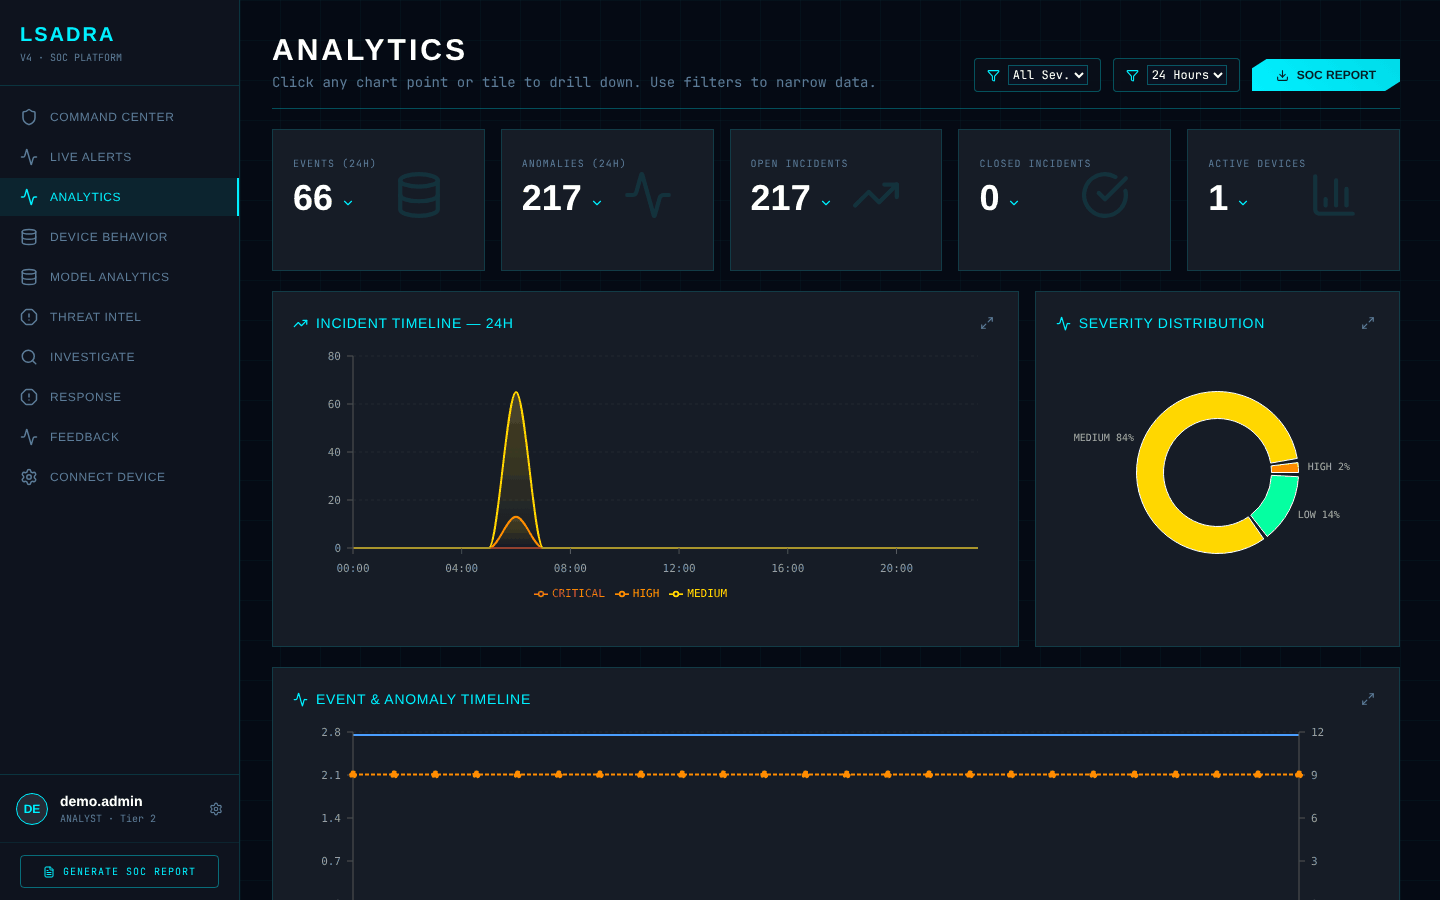
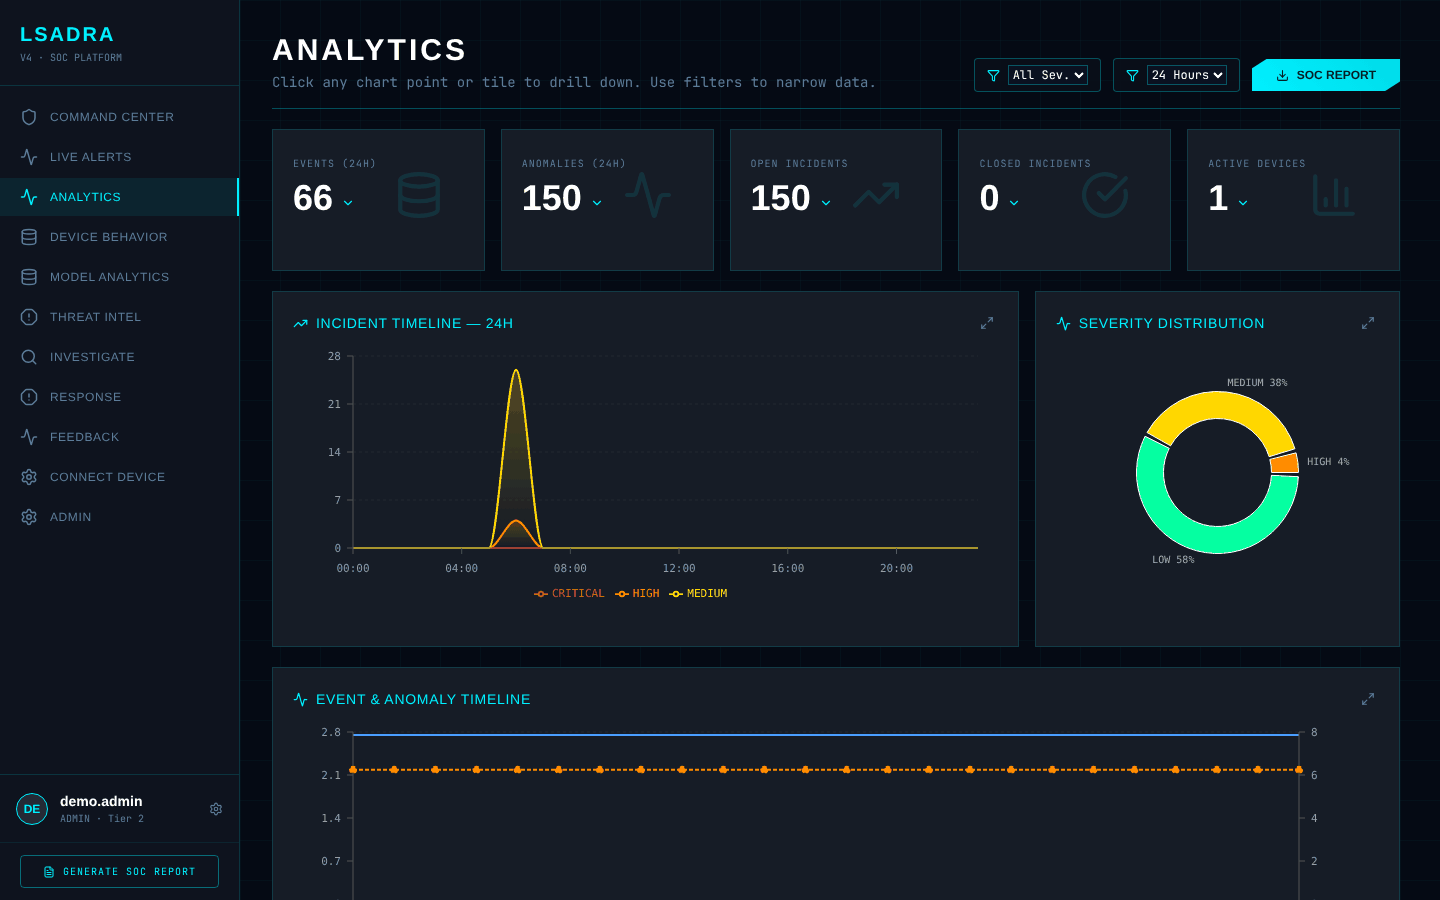
docs: cover the admin CLI in README, retake screenshots on fixed dashboard
Retake the tour screenshots on main plus the KPI, first-admin and
no-mock-data fixes, add the Admin page, and document creating the first
admin with lsadra.admin_cli. Drop placeholder-table rows those fixes
resolve. Leave CONTRIBUTING.md to the contributor quick start PR.

Claude-Session: https://claude.ai/code/session_013hvzU9MtU99dom3KQZ1H2Z

diff --git a/README.md b/README.md
@@ -122,9 +122,28 @@ npm run dev
 
 Open **http://localhost:5173** and sign in as `demo.admin` / `demo-only-not-a-secret` (the sign-in button is labelled **Initialize**). You can also create your own account with **Register**.
 
+The dashboard only ever shows data from the API. Front-end developers who want canned data without a backend can run `VITE_DEMO_MOCKS=true npm run dev` and sign in as `testuser`; that switch exists only in the dev server and is compiled out of production builds.
+
+### 5. Create an admin
+
+Accounts created with **Register**, including `demo.admin`, get the `ANALYST` role, which sees only its own data and cannot open the **Admin** page. Admins are made from a shell on the server, with the same settings as the API (here, dev mode):
+
+```bash
+# Linux / macOS: promote the demo account, or create a new admin (prompts for a password of 12+ characters)
+LSADRA_DEV_MODE=true venv/bin/python -m lsadra.admin_cli promote --username demo.admin
+LSADRA_DEV_MODE=true venv/bin/python -m lsadra.admin_cli create-admin --username alice
+```
+
+```powershell
+# Windows PowerShell (in a shell where $env:LSADRA_DEV_MODE = "true" is already set)
+venv\Scripts\python -m lsadra.admin_cli promote --username demo.admin
+```
+
+Sign out and back in for the new role to apply. After that, admins can manage users and roles from the **Admin** page. For scripts and containers, `create-admin --password-stdin` reads the password from standard input instead of prompting.
+
 > The dashboard calls the API at `http://localhost:8000`, which is set in [`frontend/src/services/api.ts`](frontend/src/services/api.ts). If you run the API elsewhere, change it there and add the dashboard's origin to `LSADRA_CORS_ORIGINS`.
 
-### 5. Check everything works
+### 6. Check everything works
 
 ```bash
 venv/bin/python tests/test_v4_smoke.py        # expected: 27/27 passed
@@ -132,7 +151,7 @@ venv/bin/python tests/test_v4_smoke.py        # expected: 27/27 passed
 
 ## Dashboard tour
 
-The screenshots below were taken from the quick start above: one demo device, 217 replayed events, 1440×900 window. Accounts created with **Register** get the `ANALYST` role; `ADMIN` sees every user's data, other roles see only their own.
+The screenshots below were taken by following the quick start above, signed in as `demo.admin` after promoting it to admin: one demo device, 217 replayed events, 1440×900 window. `ADMIN` sees every user's data; `ANALYST` and `VIEWER` see only their own.
 
 ### Sign in
 
@@ -144,7 +163,7 @@ Sign-in goes only through `POST /api/auth/login`; there is no offline login, so 
 
 <img src="docs/screenshots/command-center.png" alt="Command Center" width="720"/>
 
-The home screen. The tiles at the top count events in the last 24 hours, active threats, open and closed incidents, and devices currently sending. **Top Active Incidents** lists open incidents by recency with their severity, source IP and attack type. The **Live Threat Feed** on the right is pushed over the `/ws/alerts` WebSocket as detection stores each anomaly. If the socket drops, the page reconnects with backoff and polls every 5 seconds in the meantime.
+The home screen. The tiles at the top count events in the last 24 hours, active threats, open and closed incidents, and devices currently sending. **Ingestion Health** shows the measured event rate over the last minute; latency and drop rate say "not measured" until the API measures them. **Top Active Incidents** lists open incidents by recency with their severity, source IP and attack type. The **Live Threat Feed** on the right is pushed over the `/ws/alerts` WebSocket as detection stores each anomaly. If the socket drops, the page reconnects with backoff and polls every 5 seconds in the meantime.
 
 ### Live Alerts
 
@@ -182,6 +201,12 @@ Generates a one-time registration token and the one-line Linux install command f
 
 Per-source ingestion health: which log sources are active, events per second and latency, and the ingestion nodes (devices) behind them.
 
+### Admin
+
+<img src="docs/screenshots/admin.png" alt="Admin user management" width="720"/>
+
+Admins only. List users, change their roles, and create accounts with a chosen role.
+
 ### Pages that still show placeholder data
 
 Some screens are designed but not yet wired to the API. They render, but parts of what they show are fixed sample content rather than your data. They are good first contributions:
@@ -192,15 +217,10 @@ Some screens are designed but not yet wired to the API. They render, but parts o
 | Investigate | The API has no entity endpoint yet (`GET /api/entity/{id}` returns 404), so every search shows a generic profile with a fixed risk score of 42 |
 | Threat Intel | The lookup box does not call the API yet, so it returns nothing; the server-side AbuseIPDB cache (`LSADRA_ABUSEIPDB_API_KEY`) is not shown here |
 | Response | Playbook steps, the console and the response metrics |
-| Feedback | The feedback history list starts with sample entries |
 | Live Alerts header and footer | The ingestion rate, uptime and status line |
-| Command Center "Ingestion Health" | Events/sec and latency are fixed values from `GET /api/dashboard/health` |
 | Sources | The average latency tile |
-| Analytics | The event and anomaly timeline spreads the 24-hour totals evenly across the hours, and with no data yet the charts show generated sample series |
+| Analytics | The event and anomaly timeline spreads the 24-hour totals evenly across the hours |
 | Device Behavior | "Last seen" shows `NaNh ago` |
-| Admin | User management needs the `ADMIN` role, and registration only creates `ANALYST` accounts, so a fresh install has no admin yet |
-
-One more thing to know while testing: the dashboard serves built-in sample data to an account named exactly `testuser`, so pick any other username when you want to see your own data.
 
 ## Connect a real device
 
@@ -225,6 +245,7 @@ cp .env.example .env
 # Edit .env: set LSADRA_JWT_SECRET to a long random value, for example the output of
 #   python -c "import secrets; print(secrets.token_urlsafe(32))"
 docker compose -f docker-compose.yml up -d --build
+docker compose -f docker-compose.yml exec api python -m lsadra.admin_cli create-admin --username alice
 ```
 
 Name `docker-compose.yml` explicitly as above. A plain `docker compose up` also loads [`docker-compose.override.yml`](docker-compose.override.yml), the development override: it mounts the source tree, turns on hot reload and forces TLS off.
@@ -350,7 +371,7 @@ Background jobs (APScheduler) handle cross-source correlation, lateral-movement 
 ## Project structure
 
 ```
-lsadra/             Core platform: auth, ingestion, detection, storage, scheduler, legacy UI
+lsadra/             Core platform: auth, ingestion, detection, storage, scheduler, legacy UI, admin CLI (admin_cli.py)
 frontend/           React (Vite + TypeScript) SOC dashboard
 tests/              Test suite + end-to-end smoke tests
   security/         Security regression suite, one file per remediated finding

diff --git a/CONTRIBUTING.md b/CONTRIBUTING.md
@@ -67,38 +67,28 @@ LSADRA is an explainable SIEM platform: a **FastAPI** backend with a multi-layer
 
 ## Development Setup
 
-The README's [quick start](README.md#quick-start-local-about-10-minutes) is the full walkthrough, with Windows PowerShell variants and demo data. The short version for Linux/macOS (on Windows use `py -3.12` and `venv\Scripts\...`):
-
-### Backend (Python 3.12)
+### Backend (Python 3.12 required)
 
 ```bash
-python3.12 -m venv venv
-venv/bin/pip install -r requirements.txt
-# Dev mode allows a per-boot JWT secret; the CORS origin lets the dashboard call the API
-LSADRA_DEV_MODE=true LSADRA_CORS_ORIGINS=http://localhost:5173 \
-  venv/bin/python -m uvicorn server:app --host 127.0.0.1 --port 8000
-venv/bin/python scripts/seed_demo.py     # optional: load the synthetic demo corpus
+py -3.12 -m venv venv                          # Linux/macOS: python3.12 -m venv venv
+venv/Scripts/pip install -r requirements.txt   # Linux/macOS: venv/bin/pip
+venv/Scripts/python -m uvicorn server:app --host 0.0.0.0 --port 8000
 ```
 
 ### Frontend
 
 ```bash
 cd frontend
-npm ci
-npm run dev        # dashboard at http://localhost:5173 (demo login: demo.admin / demo-only-not-a-secret)
+npm install
+npm run dev        # dashboard at http://localhost:5173
 ```
 
 ### Running Tests
 
 ```bash
-venv/bin/python tests/test_v4_smoke.py                              # smoke gate (expected: 27/27)
-venv/bin/python -m pytest tests/security/ -q                        # security regression gate (0 failures)
-venv/bin/python -m pytest tests/ --ignore=tests/test_v4_smoke.py -q # full backend suite
-ruff check .                                                        # lint, as in CI
-cd frontend && npm run build                                        # when frontend/ changes
+venv/Scripts/python -m pytest tests/           # unit + integration tests
+venv/Scripts/python tests/test_v4_smoke.py     # end-to-end smoke test (expected: 27/27)
 ```
-
-Set `LSADRA_DEV_MODE=true` in the shell first if it has no `LSADRA_JWT_SECRET`, as CI does. The [Testing](README.md#testing) section of the README lists expected results and timings.
 
 Please make sure the smoke test passes before opening a PR.
 
